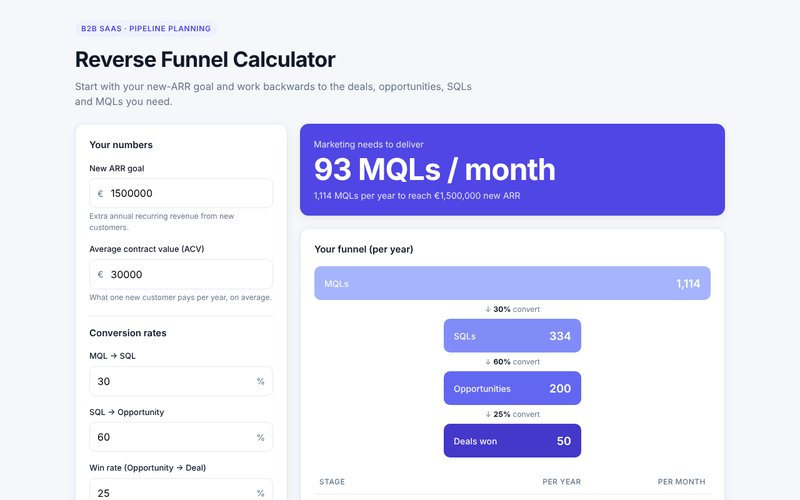
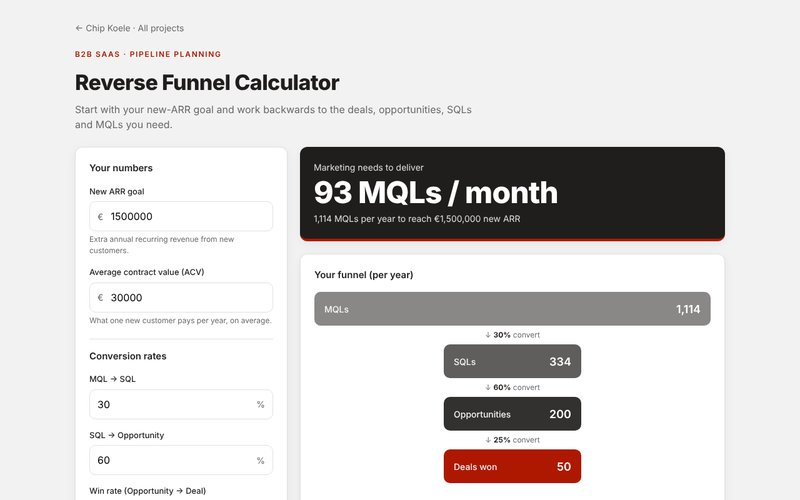
Rebrand Reverse Funnel Calculator with my CV brand
- Archivo font, warm neutrals, red only as an accent
- Headline card in ink with a red edge; funnel goes warm grey → red for deals won
- Back link to the portfolio's Projects page, favicon added
- Card thumbnail refreshed

Claude-Session: https://claude.ai/code/session_01QQrMmFhWqn3V6ooSqqv4fz

diff --git a/projects/reverse-funnel-calculator/index.html b/projects/reverse-funnel-calculator/index.html
@@ -4,28 +4,30 @@
   <meta charset="UTF-8">
   <meta name="viewport" content="width=device-width, initial-scale=1.0">
   <title>Reverse Funnel Calculator</title>
+  <link rel="icon" href="../../assets/favicon.svg" type="image/svg+xml">
   <link rel="preconnect" href="https://fonts.googleapis.com">
   <link rel="preconnect" href="https://fonts.gstatic.com" crossorigin>
-  <link href="https://fonts.googleapis.com/css2?family=Inter:wght@400;500;600;700&display=swap" rel="stylesheet">
+  <link href="https://fonts.googleapis.com/css2?family=Archivo:wght@400;500;600;800&display=swap" rel="stylesheet">
   <style>
     /* ---------- Design tokens (change the look in one place) ---------- */
     :root {
-      --bg: #f5f7fb;
+      /* Brand: from my CV (see brand kit) */
+      --bg: #f3f2f2;            /* warm off-white */
       --card: #ffffff;
-      --text: #0f172a;
-      --muted: #64748b;
-      --border: #e2e8f0;
-      --accent: #4f46e5;        /* main brand colour */
-      --accent-soft: #eef2ff;
-      --radius: 14px;
-      --shadow: 0 1px 2px rgba(15, 23, 42, .04), 0 4px 16px rgba(15, 23, 42, .06);
+      --text: #201e1d;          /* warm near-black */
+      --muted: #696767;
+      --border: #e1e0e0;
+      --accent: #ae1800;        /* CV red: small accents only */
+      --accent-soft: #f7e9e6;
+      --radius: 12px;
+      --shadow: 0 1px 2px rgba(32, 30, 29, .04), 0 4px 16px rgba(32, 30, 29, .06);
     }
 
     * { box-sizing: border-box; }
 
     body {
       margin: 0;
-      font-family: "Inter", system-ui, -apple-system, sans-serif;
+      font-family: "Archivo", system-ui, -apple-system, sans-serif;
       background: var(--bg);
       color: var(--text);
       line-height: 1.5;
@@ -35,11 +37,12 @@
 
     header { margin-bottom: 24px; }
     .eyebrow {
-      display: inline-block; font-size: 12px; font-weight: 600; letter-spacing: .06em;
-      text-transform: uppercase; color: var(--accent); background: var(--accent-soft);
-      padding: 4px 10px; border-radius: 999px; margin-bottom: 10px;
+      display: inline-block; font-size: 12px; font-weight: 600; letter-spacing: .14em;
+      text-transform: uppercase; color: var(--accent); margin-bottom: 10px;
     }
-    h1 { font-size: clamp(26px, 4vw, 34px); margin: 0 0 6px; letter-spacing: -.02em; }
+    h1 { font-size: clamp(26px, 4vw, 34px); font-weight: 800; margin: 0 0 6px; letter-spacing: -.02em; }
+    .back { display: inline-block; font-size: 14px; color: var(--muted); text-decoration: none; margin-bottom: 18px; }
+    .back:hover { color: var(--accent); }
     .sub { color: var(--muted); margin: 0; max-width: 640px; }
 
     /* Two columns on desktop, stacked on mobile */
@@ -72,11 +75,12 @@
 
     /* ---------- Headline result ---------- */
     .headline {
-      background: var(--accent); color: #fff; border-radius: var(--radius);
+      background: var(--text); color: #fff; border-radius: var(--radius);
       padding: 22px; margin-bottom: 20px; box-shadow: var(--shadow);
+      border-bottom: 4px solid var(--accent);
     }
     .headline .label { opacity: .85; font-size: 14px; }
-    .headline .big { font-size: clamp(36px, 6vw, 48px); font-weight: 700; letter-spacing: -.02em; line-height: 1.1; margin: 4px 0; }
+    .headline .big { font-size: clamp(36px, 6vw, 48px); font-weight: 800; letter-spacing: -.02em; line-height: 1.1; margin: 4px 0; }
     .headline .small { opacity: .85; font-size: 14px; }
 
     /* ---------- Funnel visual ---------- */
@@ -107,6 +111,7 @@
 <body>
   <div class="wrap">
     <header>
+      <a class="back" href="../../projects.html">← Chip Koele · All projects</a><br>
       <span class="eyebrow">B2B SaaS · Pipeline planning</span>
       <h1>Reverse Funnel Calculator</h1>
       <p class="sub">Start with your new-ARR goal and work backwards to the deals, opportunities, SQLs and MQLs you need.</p>
@@ -181,7 +186,7 @@
     const euro = (n) => "€" + n.toLocaleString("en-GB", { maximumFractionDigits: 0 });
 
     // Colours from wide (top of funnel) to narrow (bottom)
-    const COLORS = ["#a5b4fc", "#818cf8", "#6366f1", "#4338ca"];
+    const COLORS = ["#8a8887", "#605e5d", "#33312f", "#ae1800"]; // warm greys → CV red for deals won
 
     // ---------- 2. The reverse-funnel maths ----------
     // Work backwards: revenue → deals → opps → SQLs → MQLs.
